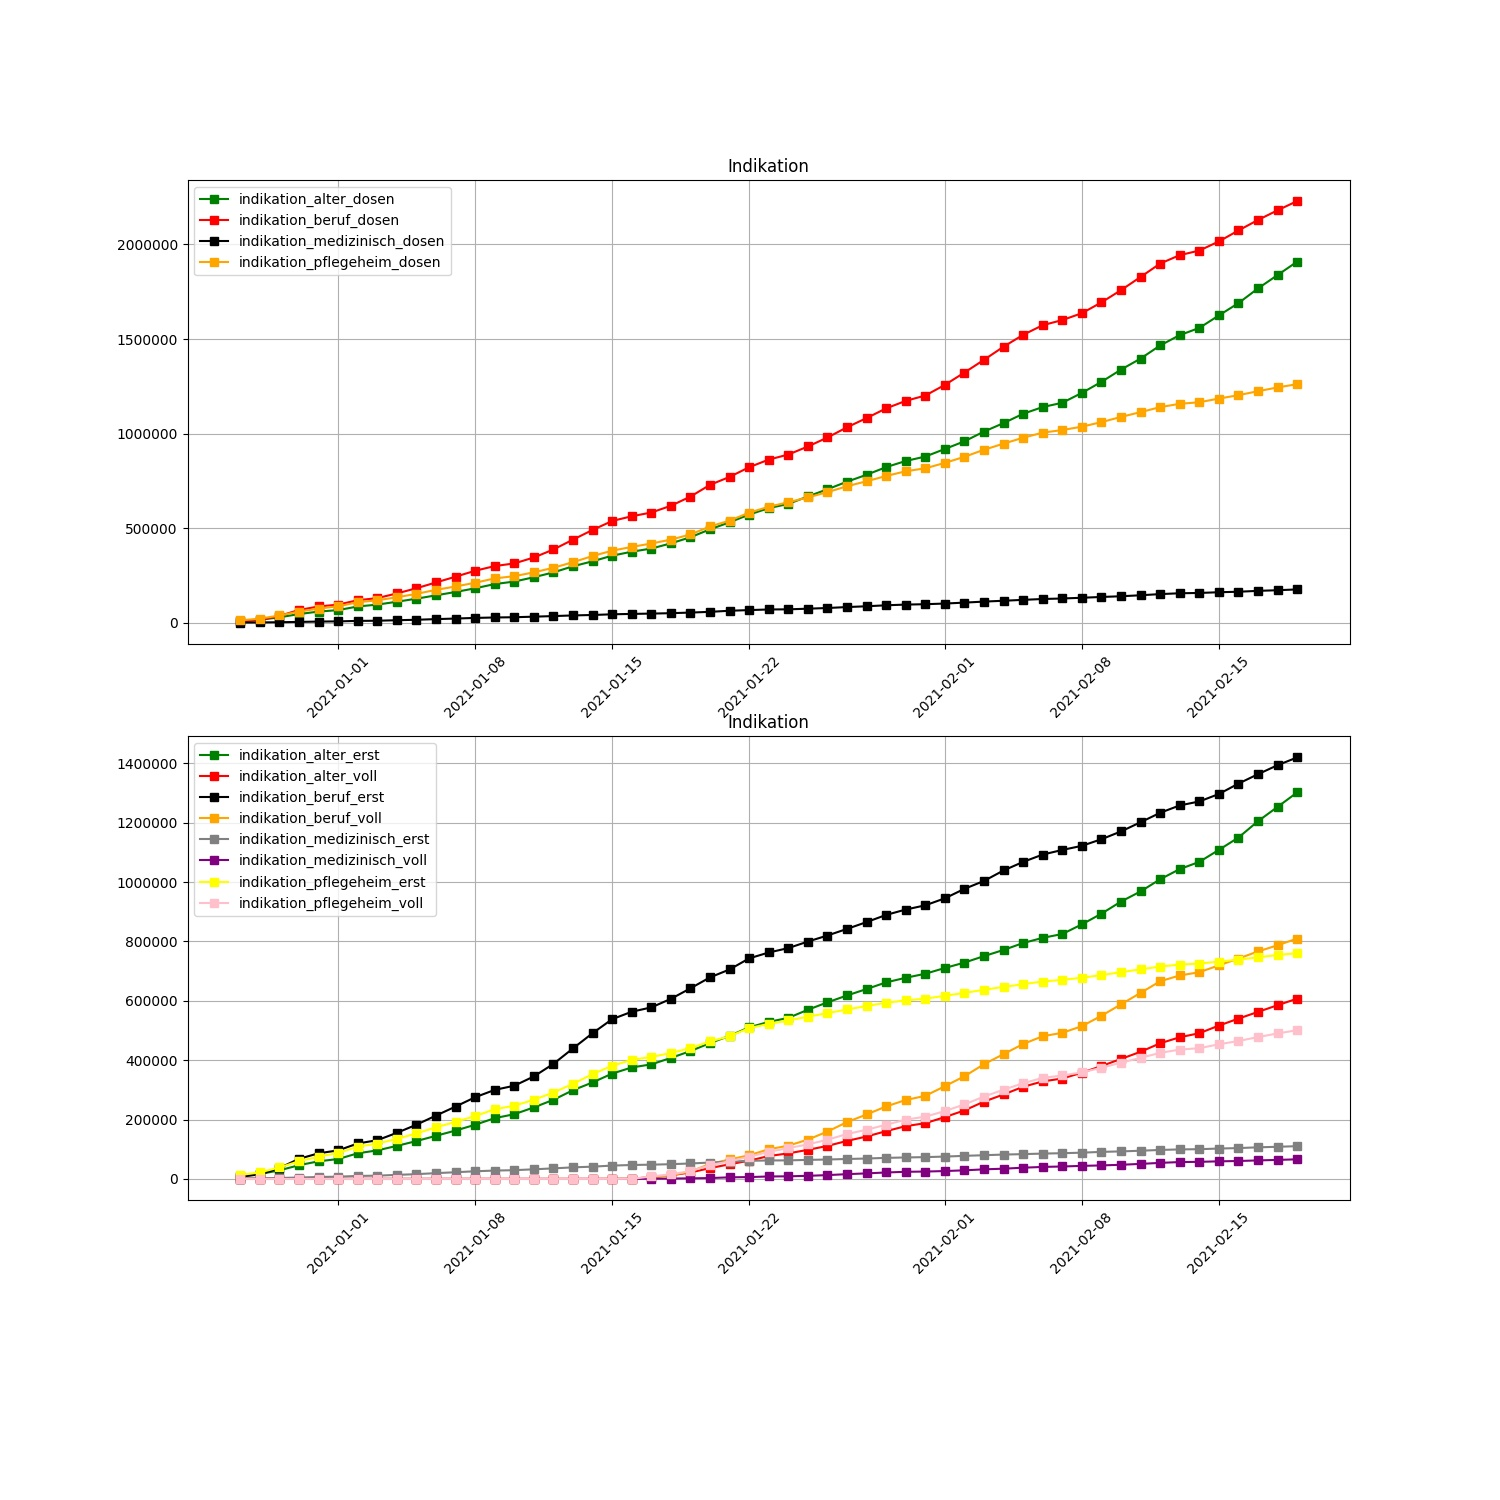
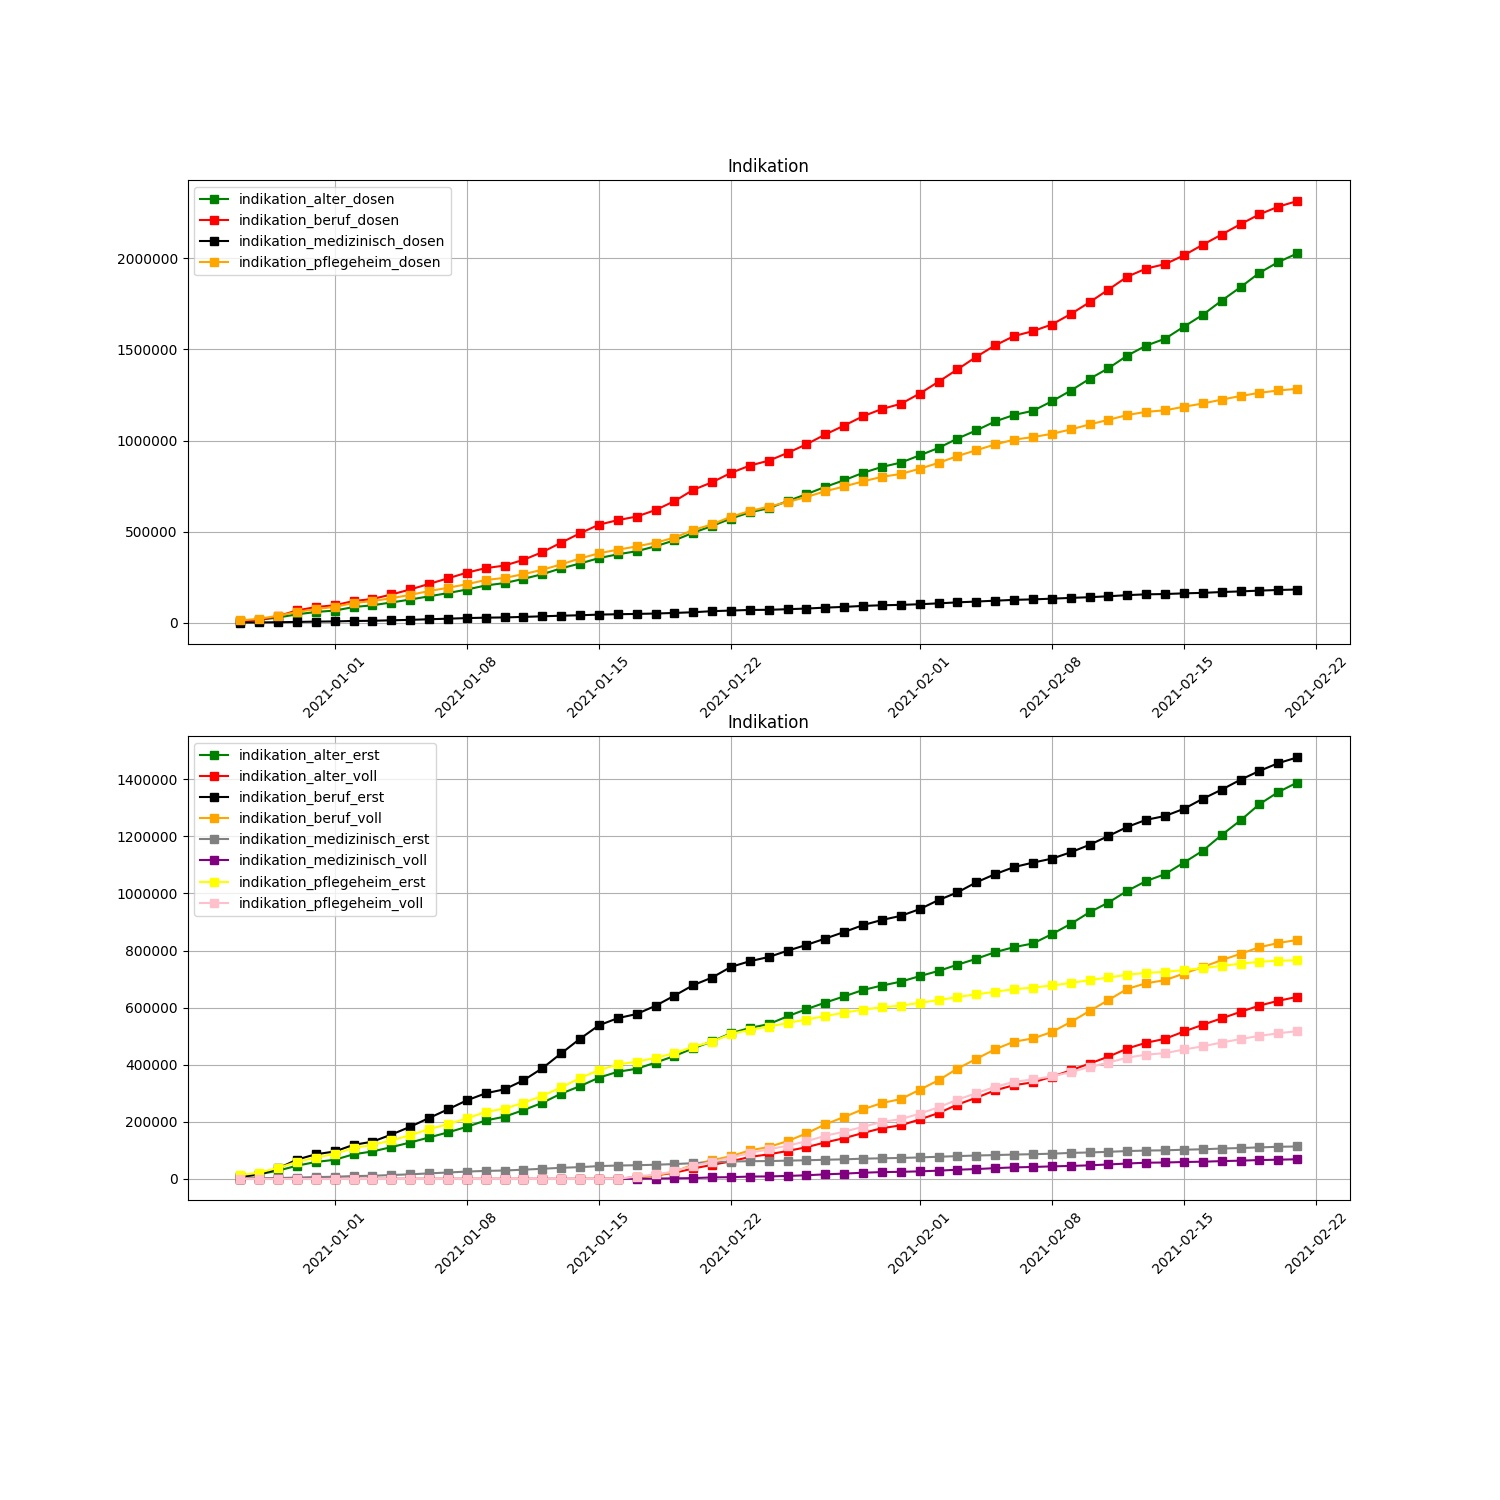
Crontab commit

diff --git a/Readme.md b/Readme.md
@@ -1,19 +1,19 @@
-# Corona vaccine Germany - Stand 2021-02-19
+# Corona vaccine Germany - Stand 2021-02-21
 ## Dashboard by [Simon Hamacher](https://www.shamacher.eu)
 ## Impfstoffe Übersicht
 **Impfstoffhersteller** | **verimpfte Dosen**
 -------- | :--------:
-Biontech | 4595777
-Moderna | 122975
-Astrazeneca | 150889
+Biontech | 4749455
+Moderna | 132354
+Astrazeneca | 187020
 
 
 ## Quoten
-**Total Verimpfte Dosen:** | 4869641
+**Total Verimpfte Dosen:** | 5068829
 -------- | :--------:
-**Erst-Impfquote** | 3.82 %
-**Voll-Impfquote** | 2.03 %
-**Imfungen Durchschnitt** | 88538.93 pro Tag
+**Erst-Impfquote** | 3.98 %
+**Voll-Impfquote** | 2.11 %
+**Imfungen Durchschnitt** | 88926.82 pro Tag
 ## Graphen
 <img src="Impfungen-Corona-01.jpg" alt="Corona-1" title="optionaler Titel" />
 <img src="Impfungen-Corona-02.jpg" alt="Corona-2" title="optionaler Titel" />
